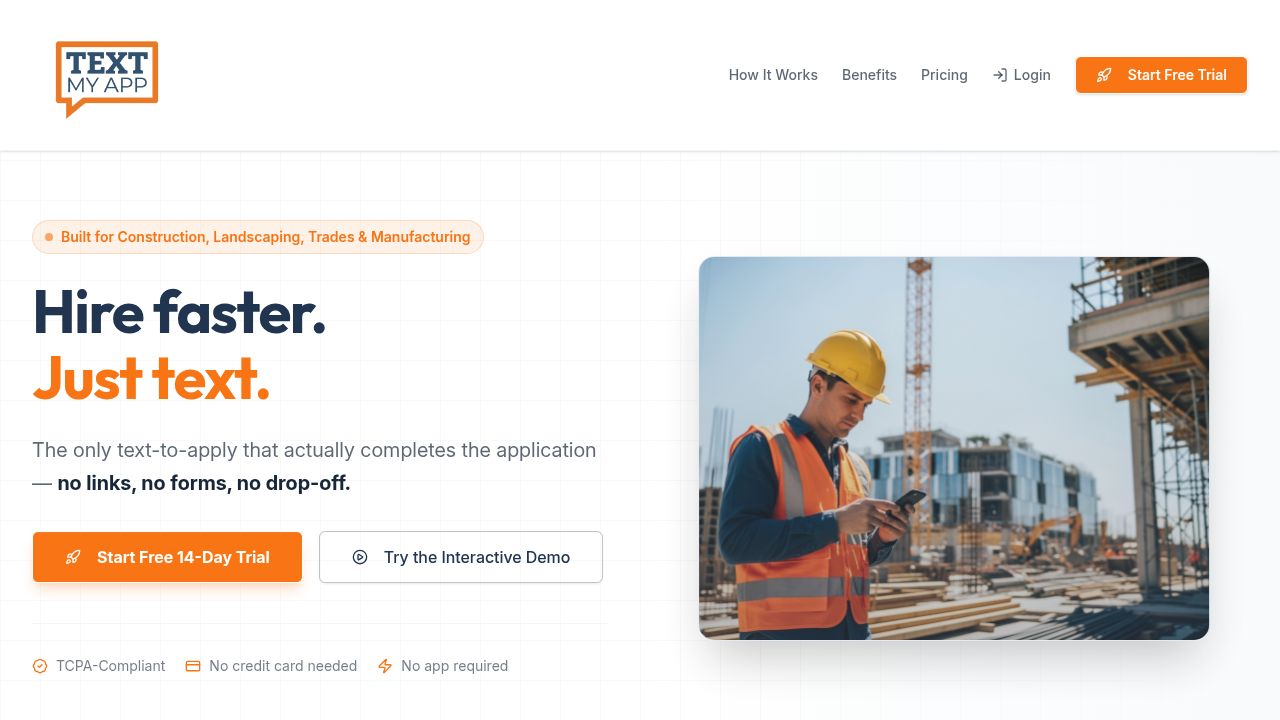
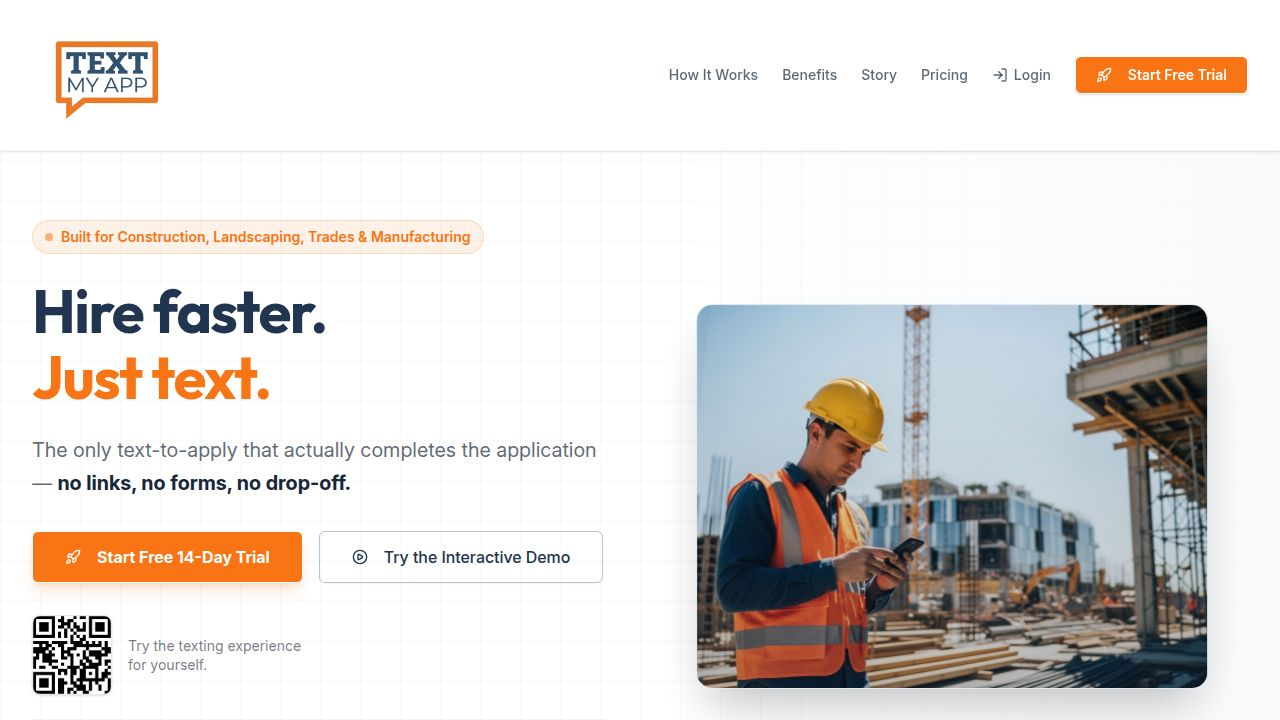
Add QR code to hero section with a promotional message
Add QR code image and promotional text to the home page hero section.

Replit-Commit-Author: Agent
Replit-Commit-Session-Id: d338a948-2b9f-428a-a02a-bb9f12ab59ff
Replit-Commit-Checkpoint-Type: full_checkpoint
Replit-Commit-Event-Id: fda0034a-2f1e-47e6-89a2-c9df383ddf01
Replit-Commit-Screenshot-Url: https://storage.googleapis.com/screenshot-production-us-central1/914ad8a1-a8b9-4008-b826-9029de5e4902/d338a948-2b9f-428a-a02a-bb9f12ab59ff/KypzekB
Replit-Helium-Checkpoint-Created: true

diff --git a/client/src/pages/Home.tsx b/client/src/pages/Home.tsx
@@ -22,6 +22,7 @@ import {
 } from "lucide-react";
 import heroWorkerImage from "@/assets/images/hero-worker.png";
 import logoImage from "@/assets/images/textmyapp-logo.png";
+import qrCodeImage from "@/assets/images/qr-code.png";
 
 declare const Supademo: { open: (id: string) => void };
 
@@ -129,7 +130,12 @@ export default function Home() {
                 </Button>
               </div>
 
-              <div className="flex flex-wrap items-center gap-5 mt-10 pt-8 border-t border-slate-100">
+              <div className="flex items-center gap-4 mt-8">
+                <img src={qrCodeImage} alt="QR code to try TextMyApp" className="w-20 h-20 rounded-lg border border-slate-200 shadow-sm" />
+                <p className="text-sm text-foreground/60 leading-snug max-w-[180px]">Try the texting experience for yourself.</p>
+              </div>
+
+              <div className="flex flex-wrap items-center gap-5 mt-6 pt-8 border-t border-slate-100">
                 <div className="flex items-center gap-2 text-sm text-foreground/60">
                   <BadgeCheck className="w-4 h-4 text-accent" />
                   TCPA-Compliant
